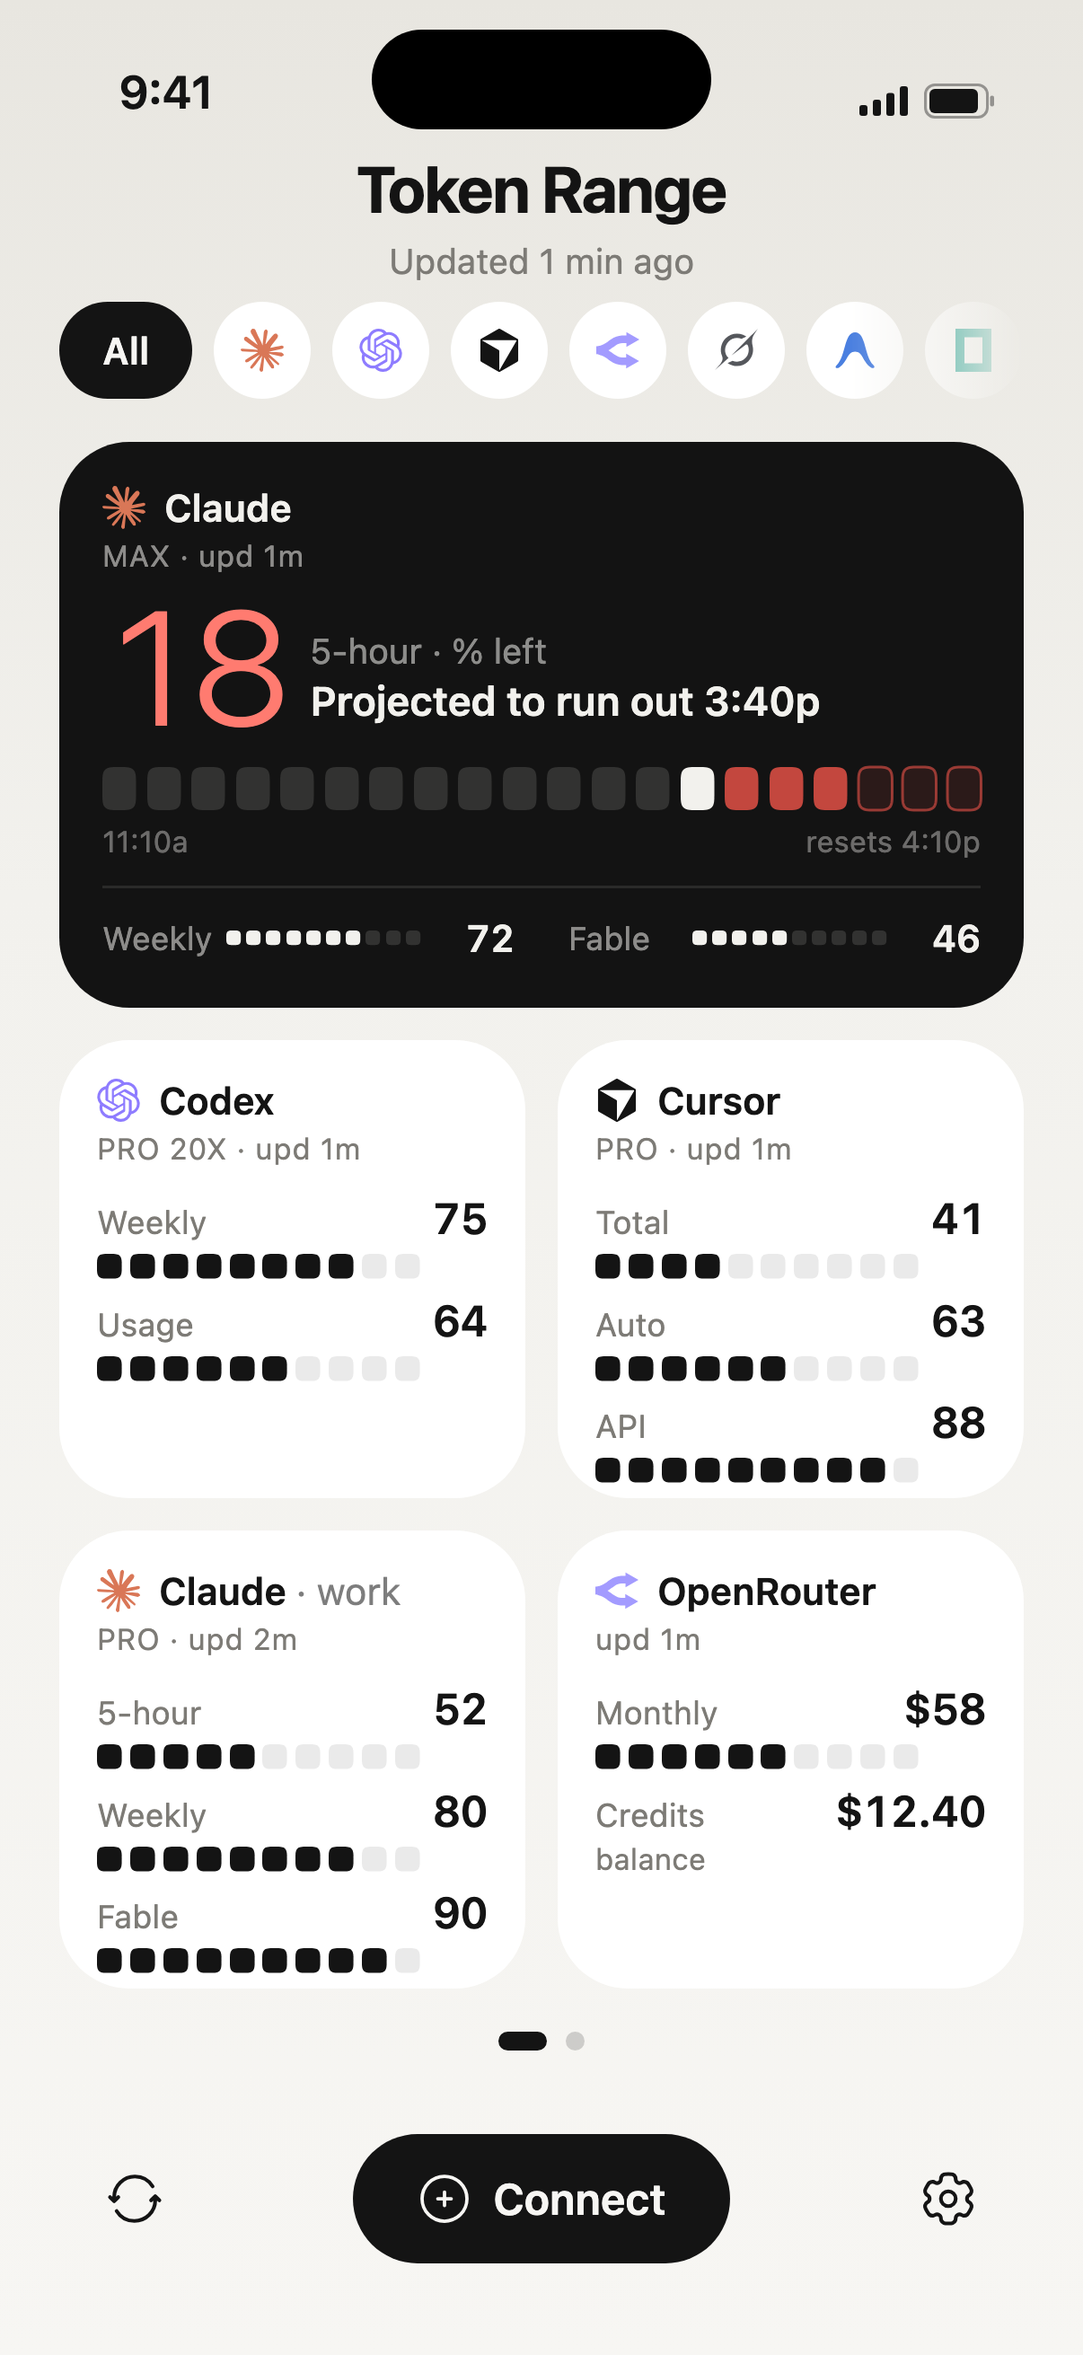
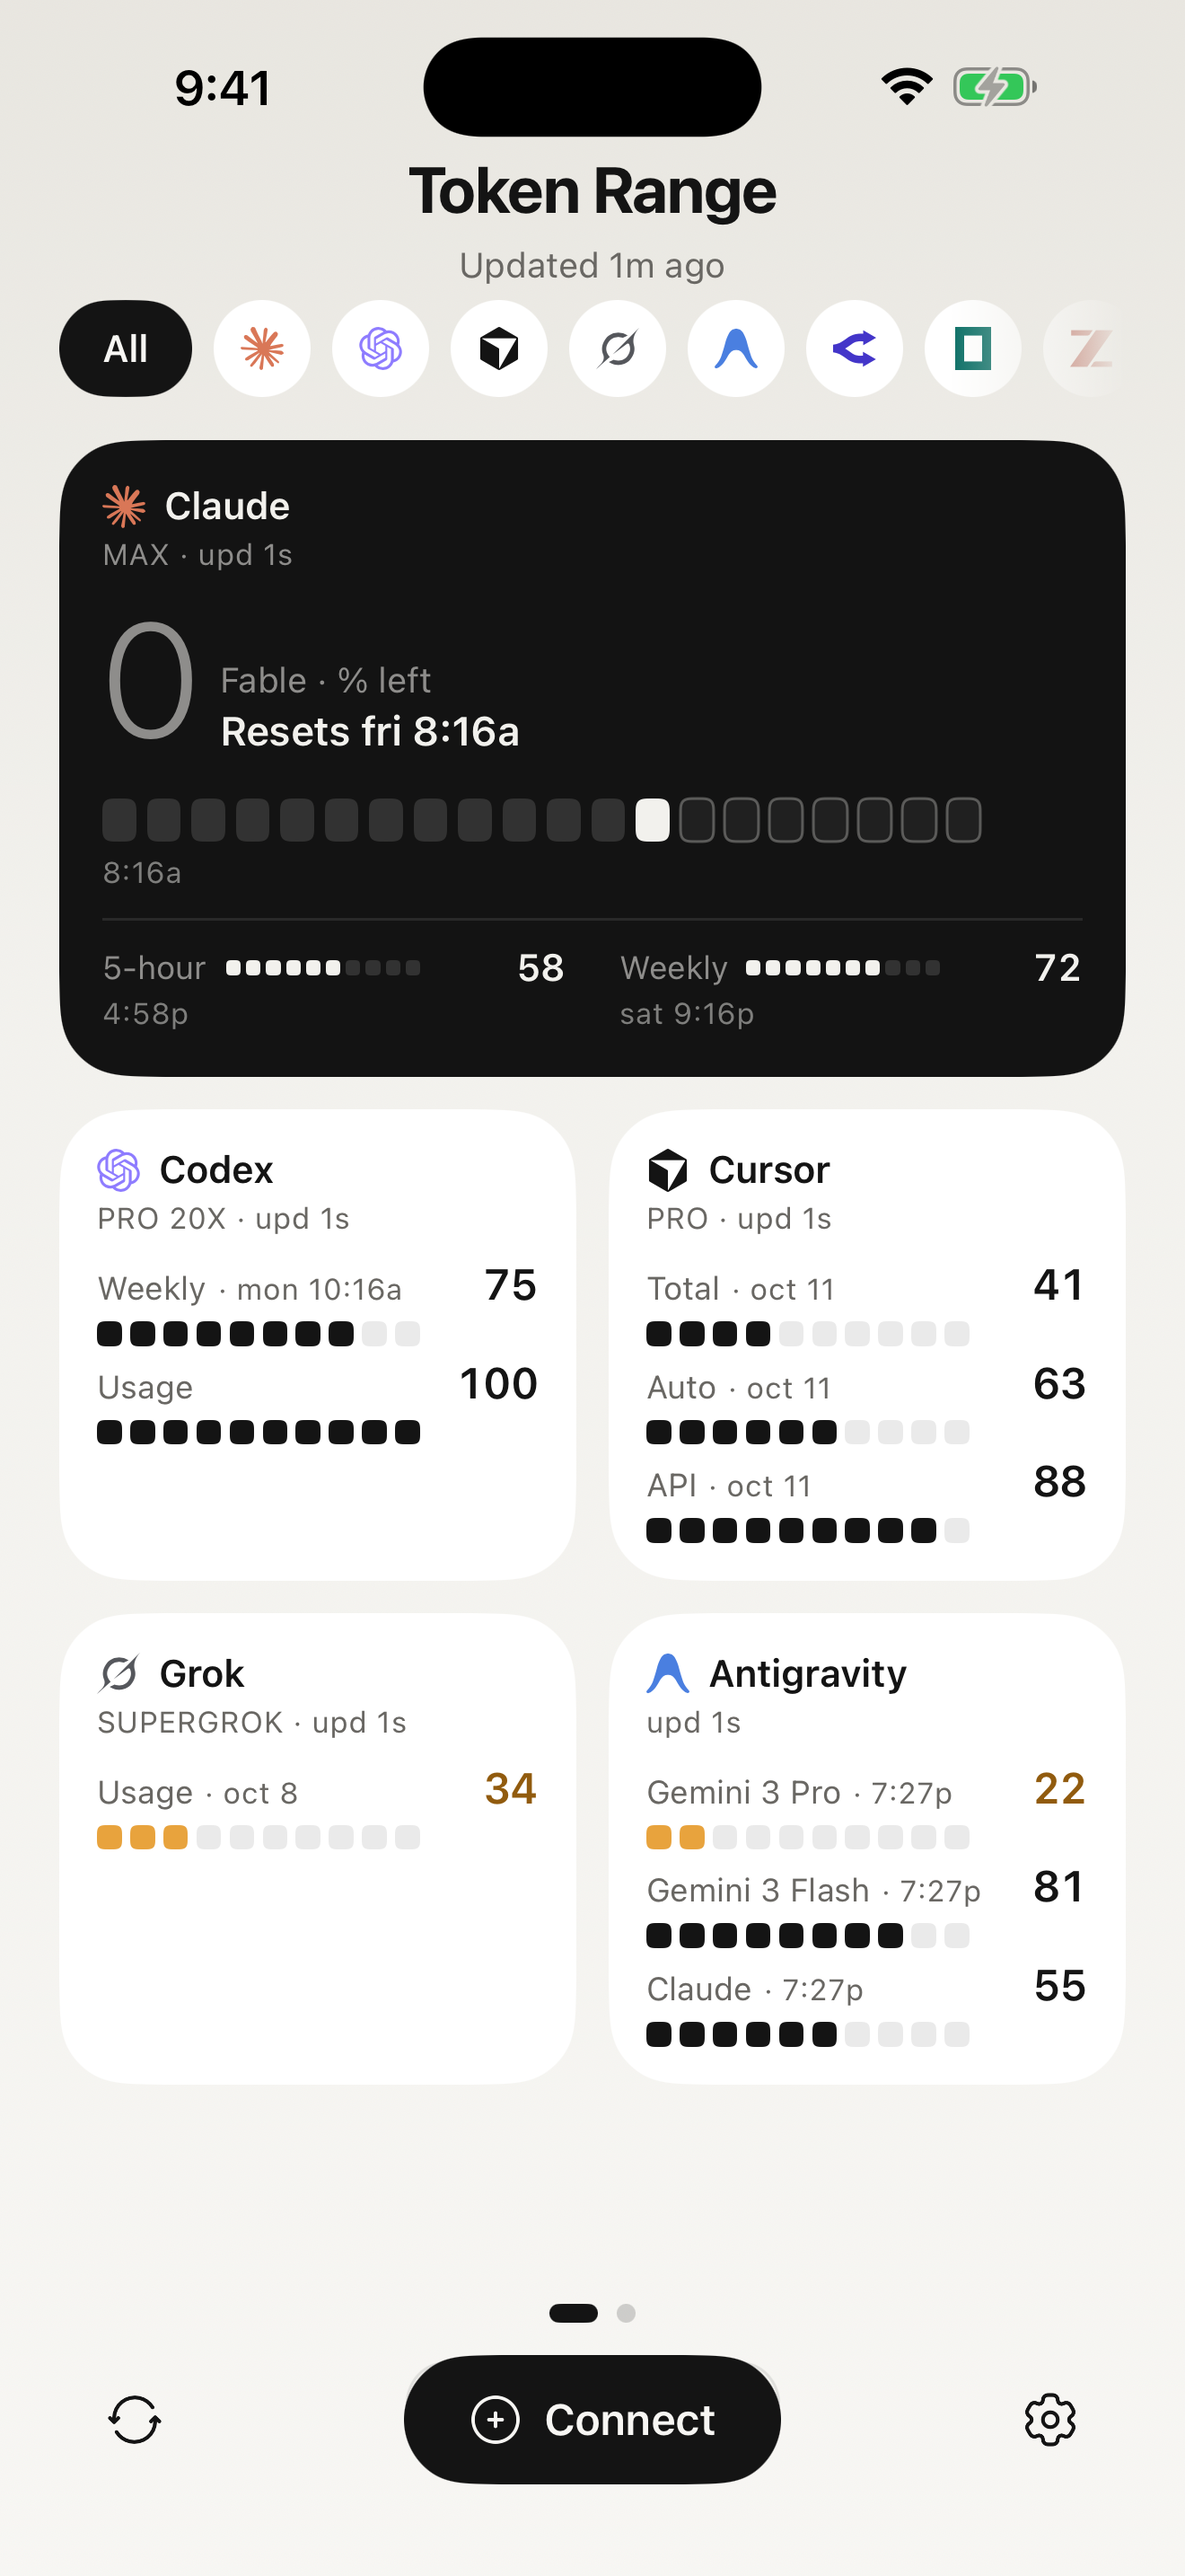
site: swap hero image for real dashboard capture (dashboard.png)
Real 1320x2868 iPhone 17 Pro Max sample-data capture from main.
Widget section stays on approved board crops; sim couldn't capture
real Home Screen widgets (NOT VERIFIED, physical-device pass later).

diff --git a/index.html b/index.html
@@ -436,8 +436,8 @@
     </div>
     <div class="hero-shot">
       <div class="phone">
-        <img src="assets/bento-shot-dashboard.png?v=20260929-bento" width="1206" height="2622"
-             alt="Token Range dashboard with a black Claude tile and white Codex, Cursor, Claude work, and OpenRouter tiles, each with grid-cell meters, sample data"
+        <img src="assets/bento-shot-dashboard.png?v=20260929-real" width="1320" height="2868"
+             alt="Token Range dashboard with a black Claude tile and white Codex, Cursor, Grok, and Antigravity tiles, each with grid-cell meters, sample data"
              fetchpriority="high">
       </div>
     </div>
